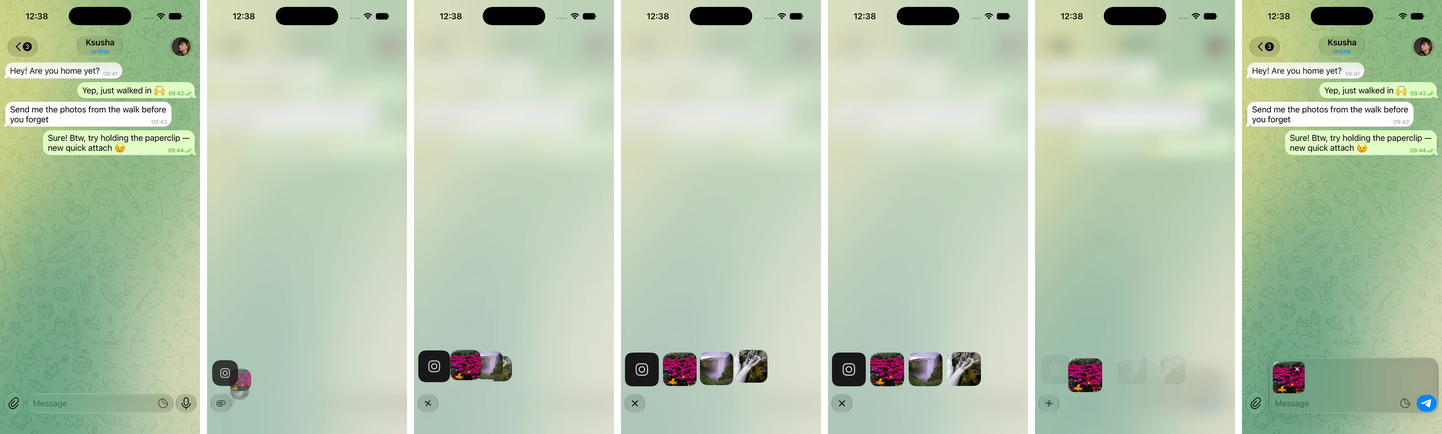
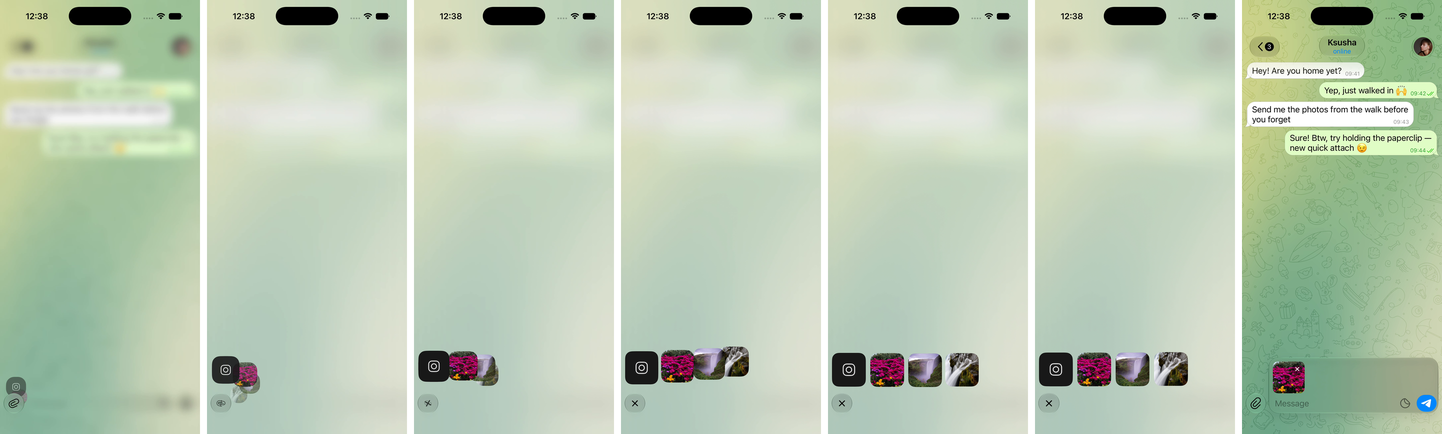
Spend the frames on the fan opening itself
Six frames across the birth and flight, then one of the attachment sitting
in the composer.

diff --git a/README.md b/README.md
@@ -1,6 +1,6 @@
 # QuickAttach
 
-<img src="docs/fan-frames.png" width="900" alt="seven frames: the fan opens, a photo lands in the composer">
+<img src="docs/fan-frames.png" width="900" alt="six frames of the fan opening, then the attached photo">
 
 Telegram's iOS chat screen, rebuilt in plain UIKit — the original runs on
 their AsyncDisplayKit fork, with nodes and hand-computed layout — plus one
